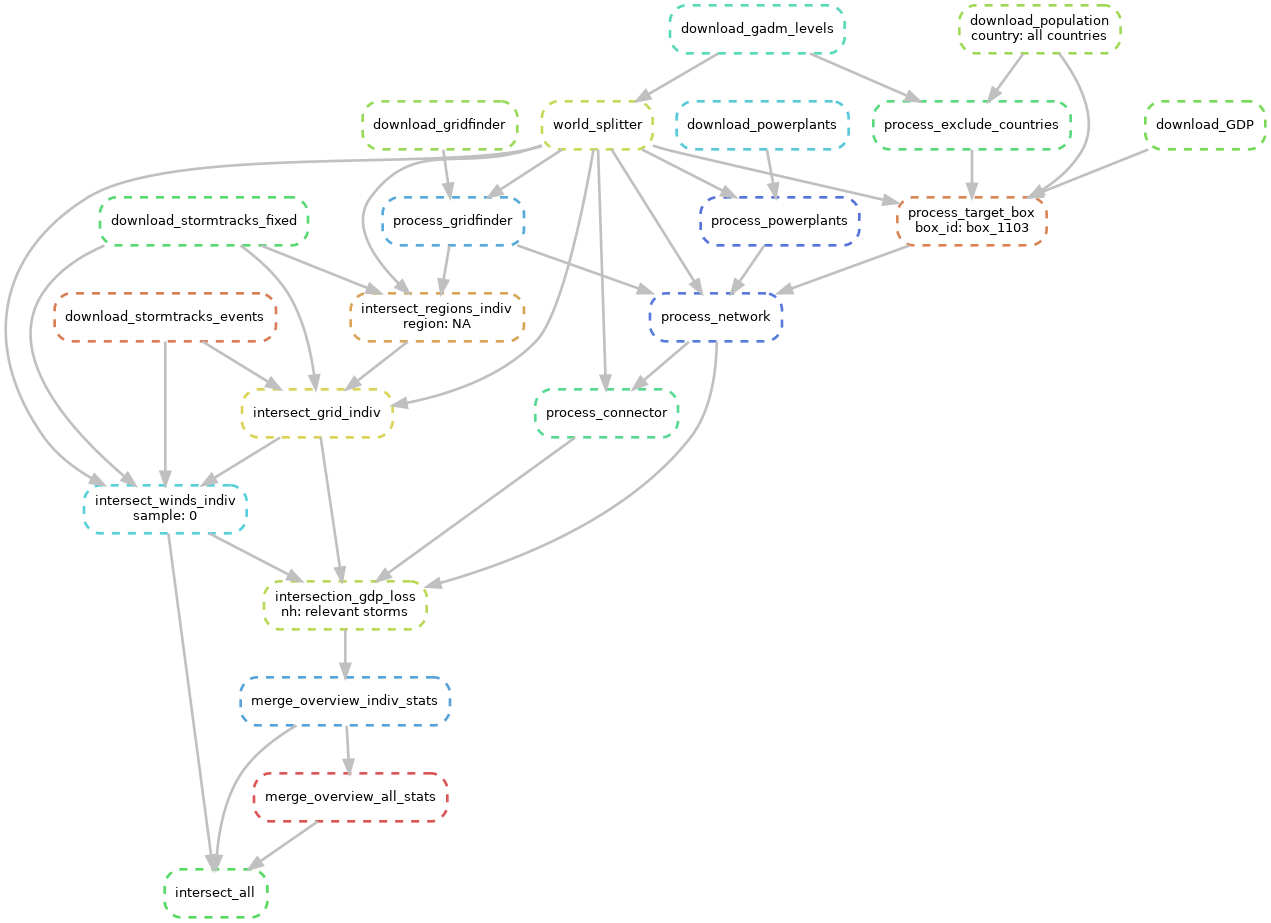
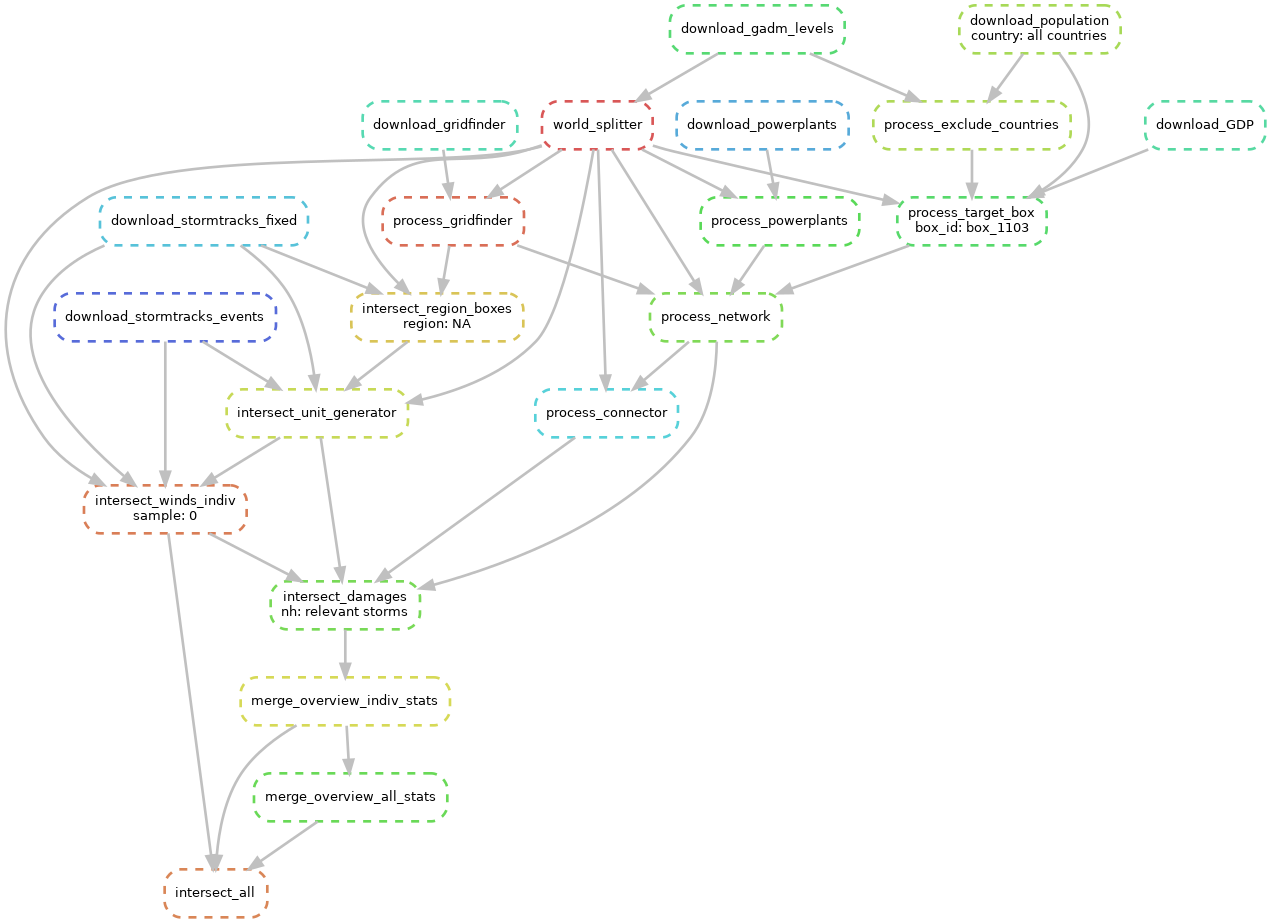
Added some intersection documentation

diff --git a/docs/src/user-guide/workflow_power/intersect/power_intersect.md b/docs/src/user-guide/workflow_power/intersect/power_intersect.md
@@ -1,1 +1,35 @@
-# TITLE
+# Intersect infrastructure with storms
+
+
+The intersection of the [storm data](../download/power_download_stormtracks.md) with the
+[processed infrastructure](../process/power_process.md) is ordered into the following steps 
+1. [Region boxes (intersect_region_boxes)](power_intersect_boxes.md)
+2. [Generate region units (intersect_unit_generator)](power_intersect_grid.md)
+3. [Analyse storm winds (intersect_winds_indiv)](power_intersect_windextracter.md)
+4. [Intersect with infrastructure (intersect_damages)](power_intersect_gdploss.md)
+5. [Overview (merge_overview_indiv_stats and merge_overview_all_stats)](power_intersect_overview.md)
+
+Here, the order is relevant. First the boxes are assigned their respective region (EP, NA, NI, SI, SP, WP) in the
+[region boxing workflow](power_intersect_boxes.md). The next step ([unit generation](power_intersect_grid.md)) generates 'units' in which the wind speeds are assumed
+to be the same throughout. This is suitable for small units. Units containing no power network infrastructure (i.e. no [network](../process/power_process_network.md)) are discarded. A wind
+model is then applied to the [storm data](../download/power_download_stormtracks.md) to calculate the wind speed
+parameters at each unit ([wind analysis](power_intersect_windextracter.md)). Given a failure criteria, infrastructure
+components are documented to fail in the [infrastructure intersection workflow](power_intersect_gdploss.md). The
+[overview](power_intersect_overview.md) brings together the storm intersections for a very preliminary overview.
+
+
+The intersection (including previous workflow dependencies) can be visualised as follows.
+
+![`intersect_all` rule workflow with one box_id, region and sample example](../power_img/dag_intersect_all.png)
+
+
+We use one box_id (box_1103), one region (NA) and one sample (0) for the wildcard parameters, however, in practice,
+there are frequently many more. This is dependent on the config.yaml inputs.
+The `intersect_all` rule has arrow dependencies other than `merge_overview_all_stats` due to the implementation of
+snakemake checkpoints. This allows the correct scripts to be rerun in the event of incomplete previous runs (see
+[wind analysis](power_intersect_windextracter.md) for further details).
+
+
+These steps can be executed in one by entering `snakemake -s workflow/Snakefile intersect_all -c{core_numbers}`. Note
+that if the `process_all` and/or `download_all` rules have not already run, then they will be run through this command
+automatically.

diff --git a/docs/src/user-guide/workflow_power/process/power_process.md b/docs/src/user-guide/workflow_power/process/power_process.md
@@ -13,4 +13,11 @@ Here, the order is important to the processing and the snakemake workflow can be
 
 ![`process_all` rule workflow with one box_id example](../power_img/dag_process_all.png)
 
-Note that this includes the [download workflow](../download/power_download.md) process too. We also note that for this visualisation only one box_id wildcard has been specified (box_1103) to prevent visual cluttering. Whilst this is possible, the input usually consists of many more box_id wildcards which will be processed in parallel. This of course depends on the config.yaml inputs (see more details [here](../../workflow_power/workflow_power.md))
+Note that this includes the [download workflow](../download/power_download.md) process too. We also note that for this
+visualisation only one box_id wildcard has been specified (box_1103) to prevent visual cluttering. Whilst this is
+possible, the input usually consists of many more box_id wildcards which will be processed in parallel. This of course
+depends on the config.yaml inputs (see more details [here](../../workflow_power/workflow_power.md))
+
+
+These steps can be executed in one by entering `snakemake -s workflow/Snakefile process_all -c{core_numbers}`. Note
+that if the `download_all` rule has not already run, then it will be run through this command automatically.

diff --git a/docs/src/user-guide/workflow_power/intersect/power_intersect_grid.md b/docs/src/user-guide/workflow_power/intersect/power_intersect_grid.md
@@ -1,1 +1,9 @@
-# TITLE_sub
+# Unit generation
+
+A unit is defined as a rectangular-shaped geometric area in which the wind speed parameters during a storm are assumed to be
+the same throughout the area. Units not containing power network infrastructure are discarded as they will never contain any storm damages.
+The size of the unit is currently set to be equal to the [return period map data](../download/power_download_stormtracks.md).
+This is deemed to be a suitable granularity and also could allow for future comparisons (not currently implemented). The
+figure below shows an example of units around the southern USA/Caribbean which belongs to the North American (NA) region basin.
+
+![Example of units in the NA region basin](../power_img/units_NA.png)

diff --git a/docs/src/user-guide/workflow_power/process/power_process_targets.md b/docs/src/user-guide/workflow_power/process/power_process_targets.md
@@ -2,7 +2,9 @@
 
 The idea behind this script is to take the [gridfinder input data](../download/power_download_gridfinder.md) and assign
 populated locations a GDP value based on its location (country) and population. We refer to the populated locations
-(e.g. villages, cities, etc) as targets. These will be the sinks of the power network.
+(e.g. villages, cities, etc) as targets. These will be the sinks of the power network. Below is an example figure in
+which the grey regions represent the target locations.
+![Target location example](../power_img/targets.png)
 
 
 ### Workflow

diff --git a/docs/src/user-guide/workflow_power/intersect/power_intersect_boxes.md b/docs/src/user-guide/workflow_power/intersect/power_intersect_boxes.md
@@ -1,1 +1,4 @@
-# TITLE_sub
+# Region boxes
+
+This scripts checks which boxes (unique box_id) are located in which regions (EP, NA, NI, SI, SP, WP). This is then
+used in the [unit generation](power_intersect_grid.md) to only process the selected storm regions in the config.yaml file.

diff --git a/docs/src/user-guide/workflow_power/intersect/power_intersect_windextracter.md b/docs/src/user-guide/workflow_power/intersect/power_intersect_windextracter.md
@@ -1,1 +1,9 @@
-# TITLE_sub
+# Storm analysis
+
+
+steps and explain
+    mention also the column explanations
+
+checkpoints
+
+example
